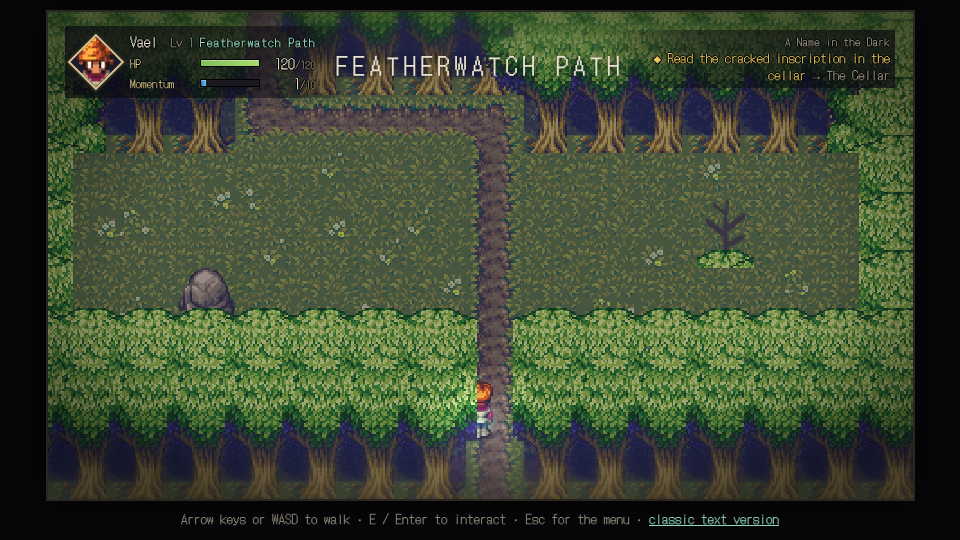
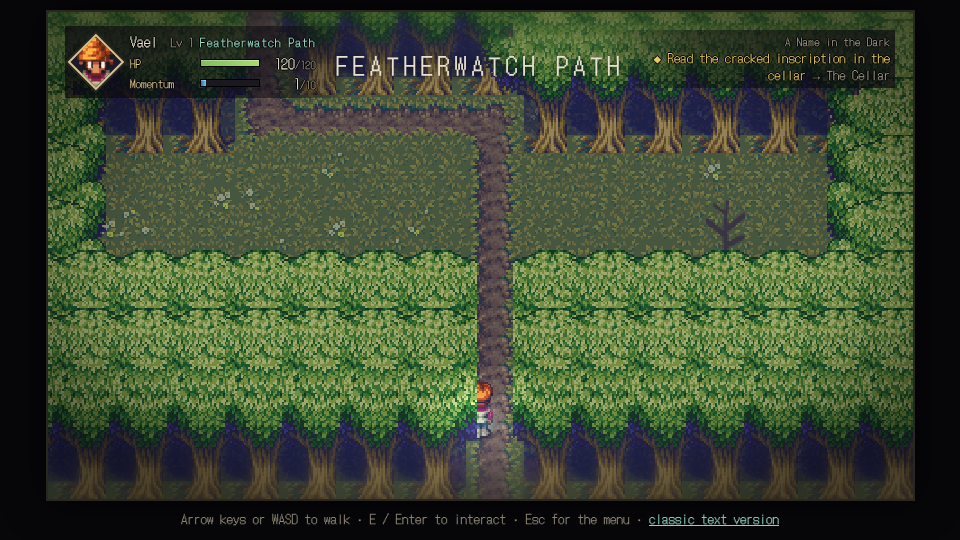
Fix QA-41 (catch-up overshoot) and QA-50 (trees cropped to dark squares)
Claude-Session: https://claude.ai/code/session_018ysfjQ3yuk5cLUFu11AbcY

Changed region(s): [[0.0312, 0.2667, 0.5, 0.5926], [0.5312, 0.2667, 0.9062, 0.5926]]

diff --git a/ui/tiles-manaseed.js b/ui/tiles-manaseed.js
@@ -146,8 +146,8 @@
         return { sx, sy, w, h, dx: x * T + Math.floor((T - w) / 2), dy: (y + 1) * T - h + 6 };
     }
 
-    // What a tree's crown may spread over.
-    const CANOPY = new Set(['tree', 'dead_tree', 'fruit_tree']);
+    // Where a tree's crown never goes: the ground you walk along (paths, floors, bridges, doorways, stairs).
+    const OPEN_GROUND = new Set(['dirt_path', 'cobble', 'bridge', 'stone_floor', 'wood_floor', 'doorway', 'rug', 'stairs_up', 'stairs_down']);
 
     function decorPass(g, map, nameAt, T) {
         const img = sheet();
@@ -155,13 +155,13 @@
         for (let y = 0; y < map.tiles.length; y++) for (let x = 0; x < map.tiles[0].length; x++) {
             if (nameAt(map, x, y) !== 'tree') continue;
             const t = treeAt(x, y, T);
-            // The crown only spreads over its own cell and other trees (or the map's edge): paths, grass you can
-            // walk on and exits stay in view (QA-35).
+            // The crown spreads over grass, trees and buildings but is cut away from paths, floors and exits, so
+            // the way on stays in view (QA-35) and trees keep their crowns (QA-50).
             g.save();
             g.beginPath();
             for (let cy = Math.floor(t.dy / T); cy <= y; cy++) for (let cx = Math.floor(t.dx / T); cx * T < t.dx + t.w; cx++) {
                 const n = nameAt(map, cx, cy);
-                if ((cx === x && cy === y) || n === null || CANOPY.has(n)) g.rect(cx * T, cy * T, T, T);
+                if ((cx === x && cy === y) || !OPEN_GROUND.has(n)) g.rect(cx * T, cy * T, T, T);
             }
             g.clip();
             g.drawImage(img, t.sx, t.sy, t.w, t.h, t.dx, t.dy, t.w, t.h);
@@ -173,7 +173,7 @@
         tree(g, px, py, T, c) {
             const img = sheet();
             if (!img) return false;
-            if (!CANOPY.has(c.above)) return;               // the crown was clipped off that cell (decorPass)
+            if (OPEN_GROUND.has(c.above)) return;   // the crown was clipped off that cell (decorPass)
             const t = treeAt(c.tx, c.ty, T);
             // Only the crown straight above the trunk's cell covers people: the parts spilling sideways would hide
             // anyone in a gap between trees (paths through a tree line).

diff --git a/qa/scripts/repro_chain_skip.js b/qa/scripts/repro_chain_skip.js
@@ -1,0 +1,21 @@
+// Minimal repro for the quest-chain cascade (report #12, QA-41): leave the cellar without reading the inscription,
+// walk to the road and back, then inspect the foundation stone. catchUpChain targets Q02 and advances Q01; starting
+// Q02 runs catchUpQuest, which finishes Q02 itself (its steps are all in story.seen), so the loop never sees
+// cur === target and force-advances every main quest after it, through Q08.
+//   node qa/scripts/repro_chain_skip.js
+const path = require('path');
+const ROOT = path.join(__dirname, '..', '..');
+const { GameEngine } = require(path.join(ROOT, 'src/engine.js'));
+const { WorldSession } = require(path.join(ROOT, 'src/world/world.js'));
+const H = require(path.join(ROOT, 'tests/world-helpers.js'));
+const g = new GameEngine({ seed: 1 }); g.start(); g.act({ type: 'choose_class', classId: 'warrior' }); g.act({ type: 'enter_world' });
+const s = new WorldSession(require(path.join(ROOT, 'src/world/zone1.js')), { engine: g });
+const st = () => Object.entries(g.story.quests).map(([k, v]) => `${k}:${v.state}`).join(' ');
+H.travel(s, 'house'); H.travel(s, 'grounds'); H.travel(s, 'road'); H.travel(s, 'grounds');
+console.log('before:', st());
+H.inspect(s, 'grounds_foundation');
+console.log('after: ', st());
+console.log('flags: ', (g.story.flags || []).join(', '), '| level', g.player.level, 'xp', g.player.xp);
+const skipped = ['Q06', 'B01', 'Q07', 'Q08'].filter((q) => g.story.quests[q].state === 'complete');
+console.log(skipped.length ? `FAIL  one inspect completed ${skipped.join(', ')} (Warden, seal and Chapter One skipped)` : 'PASS  the chain stopped at Q02');
+process.exitCode = skipped.length ? 1 : 0;

diff --git a/ui/tiles-hd.js b/ui/tiles-hd.js
@@ -403,11 +403,15 @@
         shed_wall: 0.5, shed_roof: 0.8, shed_door_shut: 0.5
     };
     /** Cast shadows and contact occlusion onto the neighbours of tall tiles (static layer, after all tiles). */
+    const packTrees = () => { const P = ENSO.tilesManaseed; return !!(P && ENSO.atlas && ENSO.atlas.image(P.KEY)); };
+
     function shadePass(g, map, nameAt, T) {
         const H = map.tiles.length, W = map.tiles[0].length;
         for (let y = 0; y < H; y++) for (let x = 0; x < W; x++) {
-            const h = TALL[nameAt(map, x, y)];
+            const name = nameAt(map, x, y), h = TALL[name];
             if (!h) continue;
+            if (name === 'tree' && packTrees()) continue;   // Mana Seed trees carry their own shadow
+
             const px = x * T, py = y * T;
             if (!TALL[nameAt(map, x, y + 1)] && y + 1 < H) {                    // falls down onto the tile below
                 const d = Math.round(T * 0.45 * h + 4);

diff --git a/tests/32-chapter-one.test.js b/tests/32-chapter-one.test.js
@@ -255,3 +255,13 @@ test('Chapter One: leaving a main quest behind never stalls the chain: a later s
     assert.strictEqual(g.questState('Q05'), 'active', 'the Captain gives the register errand');
     for (const q of ['Q03', 'Q04']) assert.strictEqual(g.questState(q), 'complete');
 });
+
+test('Chapter One: catching up stops at the quest that asked for the step, never skipping the Warden (QA-41)', () => {
+    const { g, s } = run();
+    travel(s, 'house'); travel(s, 'grounds'); travel(s, 'road'); travel(s, 'grounds');
+    inspect(s, 'grounds_foundation');
+    assert.strictEqual(g.questState('Q01'), 'complete');
+    assert.strictEqual(g.questState('Q02'), 'complete', 'its road was already walked');
+    assert.strictEqual(g.questState('Q03'), 'active');
+    for (const q of ['Q04', 'Q05', 'Q06', 'B01', 'Q07', 'Q08']) assert.notStrictEqual(g.questState(q), 'complete', `${q} is not skipped`);
+});

diff --git a/src/engine/story.js b/src/engine/story.js
@@ -192,6 +192,8 @@
             }
             if (!target) return;
             for (let guard = 0; guard < 200; guard++) {
+                // Starting a quest can catch it up by itself, so stop as soon as the target has started (QA-41).
+                if (this.story.quests[target].state === 'active' || this.story.quests[target].state === 'complete') return;
                 const cur = Object.keys(this.story.quests).find((id) => quests[id] && quests[id].kind === 'main' && this.story.quests[id].state === 'active');
                 if (!cur || cur === target) return;
                 this.advanceQuest(cur);
